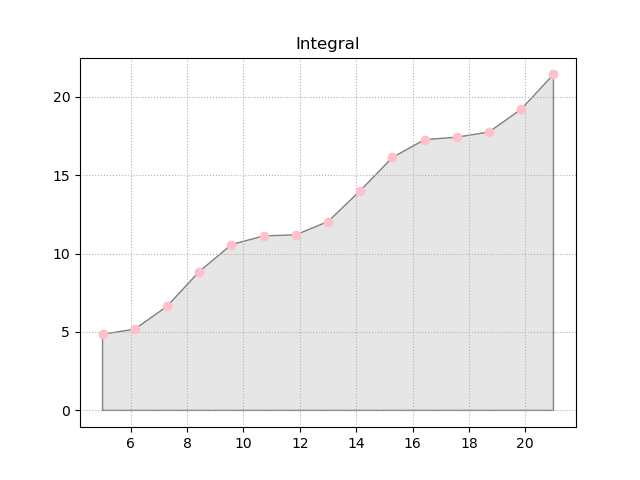
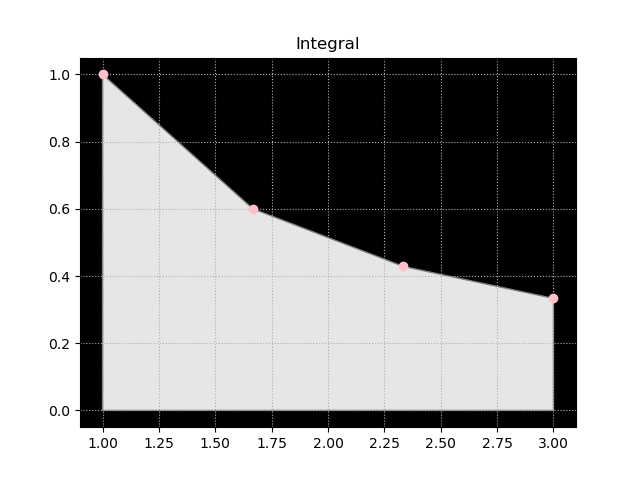
AHUEVO

diff --git a/templates/index.html b/templates/index.html
@@ -3,6 +3,7 @@
   <meta charset="UTF-8" />
   <meta name="viewport" content="width=device-width, initial-scale=1.0" />
   <head>
+    <link rel="stylesheet" href="https://unpkg.com/purecss@2.0.3/build/pure-min.css" integrity="sha384-4ZPLezkTZTsojWFhpdFembdzFudphhoOzIunR1wH6g1WQDzCAiPvDyitaK67mp0+" crossorigin="anonymous">
     <title>Home Page</title>
   </head>
 
@@ -48,7 +49,7 @@
       />
       <br />
       <br />
-      <button type="submit" name="button" value="trapecio" class="btn btn-primary" style="background:gray" href="/butt">Trapecio</a>
+      <button type="submit" name="button" value="trapecio" class="pure-button pure-button-primary" style="background:gray" href="/butt">Trapecio</a>
       <button type="submit" name="button" value="simpson1_3" class="btn btn-primary" style="background:gray" href="/butt">Simpson 1/3</a>
       <button type="submit" name="button" value="simpson3_8" class="btn btn-primary" style="background:gray" href="/butt">Simpson 3/8</a>
     </form>

diff --git a/templates/graph.html b/templates/graph.html
@@ -1,5 +1,6 @@
 <html lang="en">
 <head>
+    <link rel="stylesheet" href="https://unpkg.com/purecss@2.0.3/build/pure-min.css" integrity="sha384-4ZPLezkTZTsojWFhpdFembdzFudphhoOzIunR1wH6g1WQDzCAiPvDyitaK67mp0+" crossorigin="anonymous">
     <meta charset="UTF-8">
     <meta name="viewport" content="width=device-width, initial-scale=1.0">
     <title>GRAFICA</title>

diff --git a/main.py b/main.py
@@ -1,19 +1,28 @@
-from flask import Flask, redirect, url_for, render_template, request
-from sympy.utilities.lambdify import lambdify, implemented_function
-from sympy.parsing.sympy_parser import parse_expr, standard_transformations, implicit_multiplication_application, convert_xor
-from sympy.solvers.solveset import substitution
-from sympy.abc import x
-from sympy import *
-import numpy as np
 import matplotlib.patches as polyplot
-import matplotlib.pyplot as plot
+import matplotlib.pyplot as plt
+import matplotlib as mpl
+import numpy as np
+from flask import Flask, redirect, render_template, request, url_for
+from sympy import *
+from sympy.abc import x
+from sympy.parsing.sympy_parser import (convert_xor,
+                                        implicit_multiplication_application,
+                                        parse_expr, standard_transformations)
+from sympy.solvers.solveset import substitution
+from sympy.utilities.lambdify import implemented_function, lambdify
+mpl.use('Agg')
+app = Flask(__name__)
+app.config['SEND_FILE_MAX_AGE_DEFAULT'] = 0
 
+@app.after_request
+def after_request(response):
+    response.headers["Cache-Control"] = "no-cache, no-store, must-revalidate, public, max-age=0"
+    response.headers["Expires"] = 0
+    response.headers["Pragma"] = "no-cache"
+    return response
 
 def parse(expresion):
     return parse_expr(expresion)
-
-
-app = Flask(__name__)
 
 
 @app.route("/")
@@ -42,7 +51,6 @@ def f(xyz):
     parsed = parse_expr(xyz, evaluate=True,
                         transformations=transformations)
     print(parsed)
-    z = symbols('z')
 
     print('se ha parseado tio!')
 
@@ -50,14 +58,15 @@ def f(xyz):
 
 
 def integral_plot(f, a, b, N):
-
+    print(mpl.__version__)
     x = np.linspace(a, b, num=N)
     y = f(x)
-    fig, ax = plot.subplots()
+    fig, ax = plt.subplots()
+    ax.set_facecolor('k')
     ax.plot(x, y, 'ro', linewidth=3, color='pink')
-    plot.grid(True, linestyle=':')
-    plot.title(f'Integral')
-    plot.plot(legend=f'x:[{x}]')
+    plt.grid(True, linestyle=':')
+    plt.title(f'Integral')
+    plt.plot(legend=f'x:[{x}]')
 
     # Make the shaded region
     ix = np.linspace(a, b, num=N)
@@ -65,11 +74,11 @@ def integral_plot(f, a, b, N):
     verts = [(a, 0), *zip(ix, iy), (b, 0)]
     t = tuple(verts)
     p = Polygon(*t)
-    plot.Polygon
+    plt.Polygon
     poly = polyplot.Polygon(t, facecolor='0.9', edgecolor='0.5')
     ax.add_patch(poly)
-    ##plot.show()
-    plot.savefig('static/photos/integral.png')
+    # plot.show()
+    plt.savefig('static/photos/integral.png')
 
 
 @app.route('/trapz')
